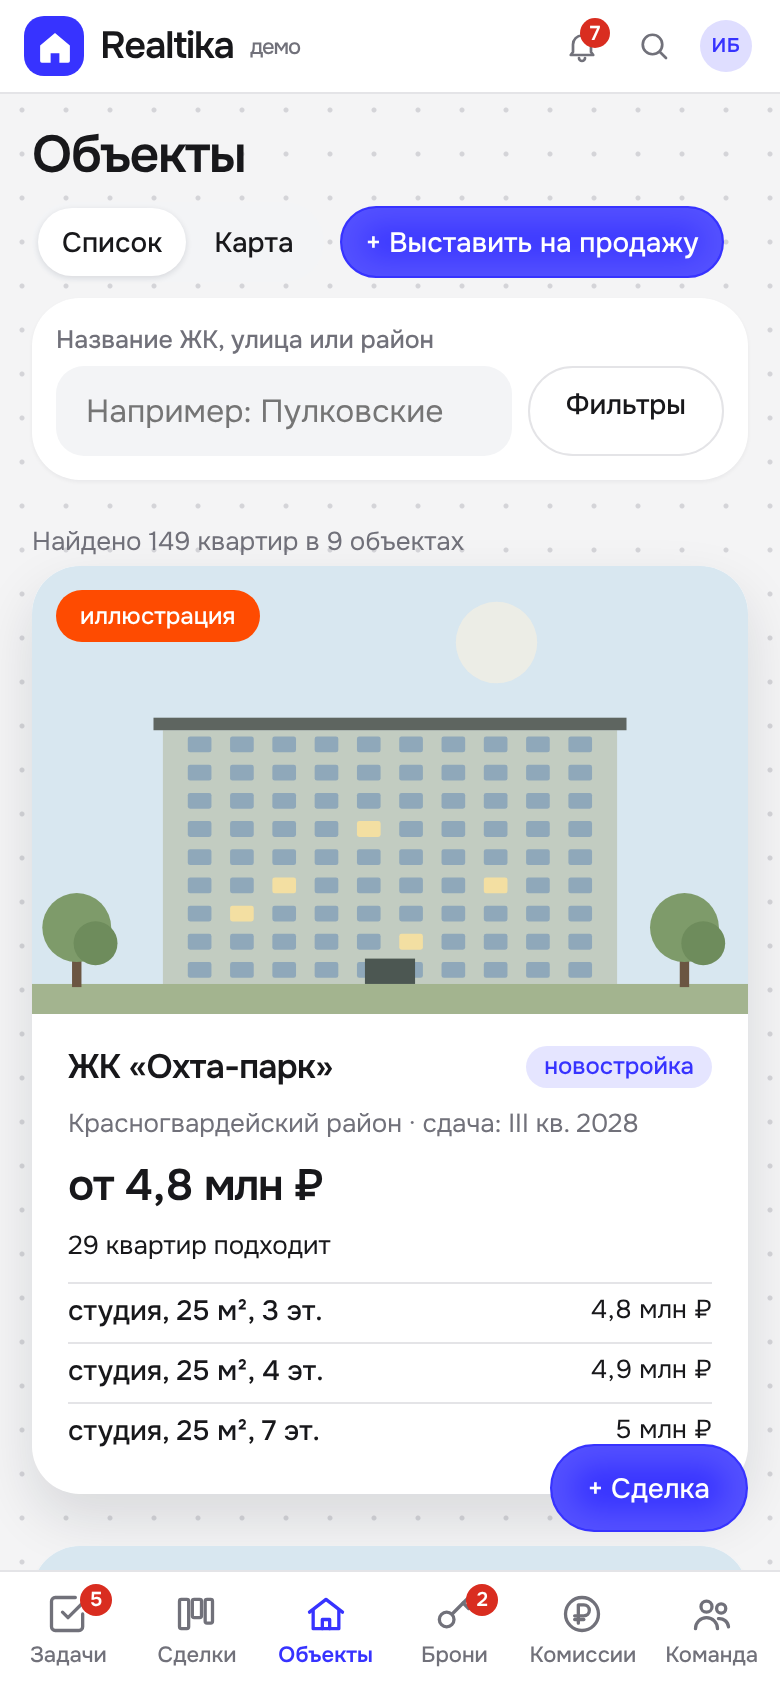
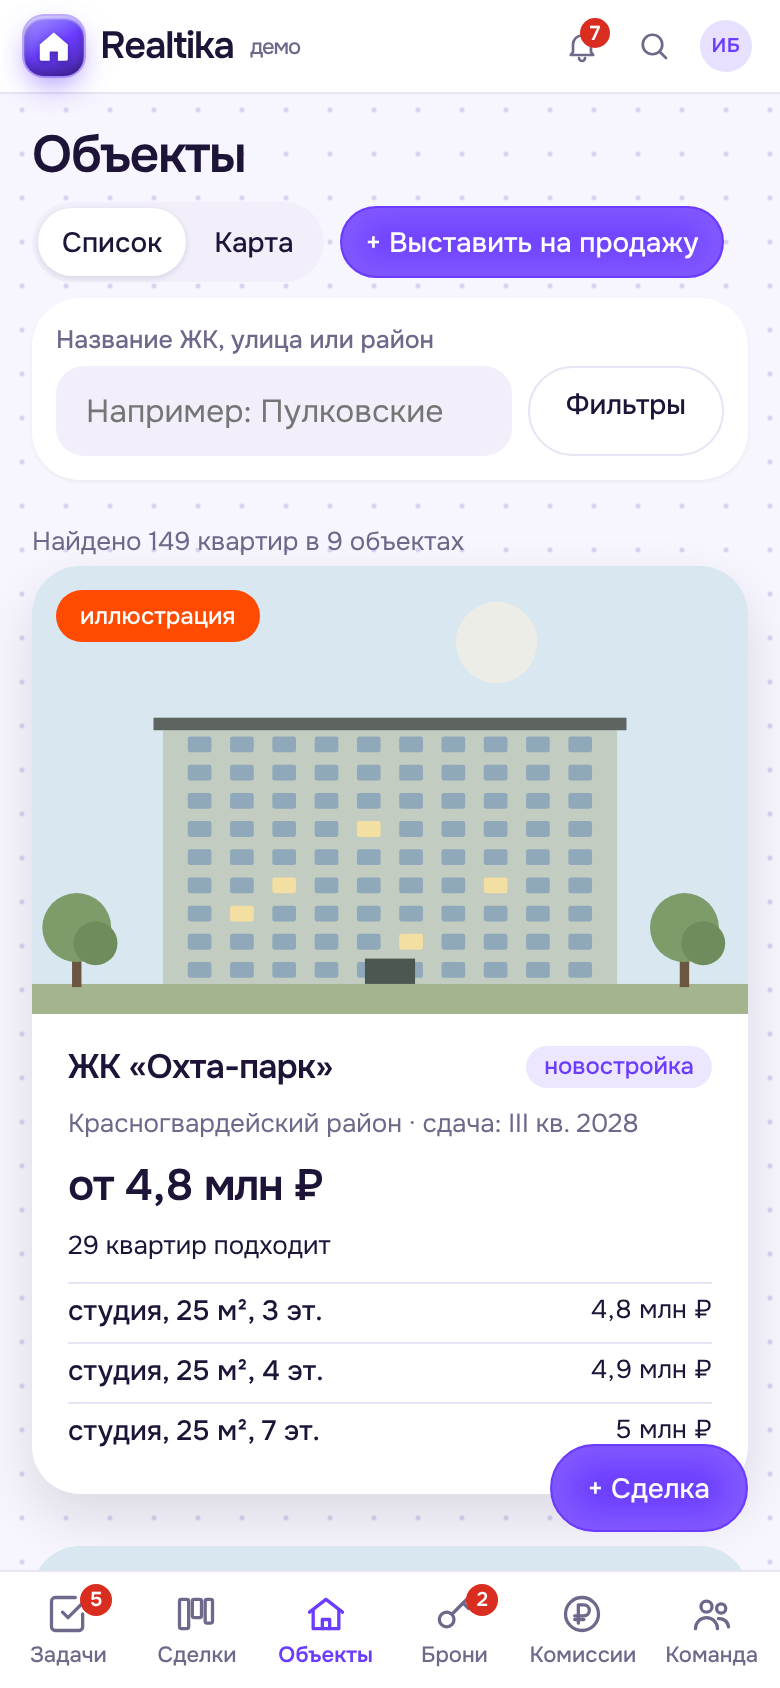
design: violet, white and orange palette; drop the black accents
Violet login panel with an orange glow, violet active tab, lavender-tinted
neutrals and dot grid. Screenshots and motion GIF refreshed.

Claude-Session: https://claude.ai/code/session_01WGyjb6ifj2QD7Cnku9bK9v

diff --git a/app/index.html b/app/index.html
@@ -7,13 +7,13 @@
 <style>
 /* Layout в духе каталогов новостроек: белая шапка с разделами сверху (на телефоне вкладки снизу), светло-серый фон,
    контент на белых скруглённых плашках, крупные карточки объектов с фото. Сделка выезжает справа. */
-/* Цветовые схемы. Базовая — «Тренд»: нейтральный серый фон в точку, белые плашки, индиго для главного действия,
-   оранжевый как второй акцент. Остальные включаются атрибутом data-palette на <html> из настроек кабинета. */
+/* Цветовые схемы. Базовая — «Тренд»: фиолетовый, белый и оранжевый. Светло-лавандовый фон в точку, белые плашки,
+   фиолетовый для главного действия, оранжевый как второй акцент. Остальные включаются атрибутом data-palette на <html> из настроек кабинета. */
 :root {
-  --bg: #F4F4F5; --surface: #FFFFFF; --sunken: #F3F4F6; --hover: #E4E4E7; --ink: #18181B; --muted: #71717A; --line: #E4E4E7; --dot: #D4D4D8;
-  --accent: #3733FF; --accent-ink: #FFFFFF; --accent-d: #8F8CFF; --accent-ink-d: #07063A; --hot: #FE4B01;
-  --side-bg: #FFFFFF; --side-ink: #18181B; --side-muted: #71717A; --side-hover: #F3F4F6; --side-line: #E4E4E7; --side-field: #F3F4F6;
-  --panel: #18181B;
+  --bg: #F7F5FD; --surface: #FFFFFF; --sunken: #F2EFFB; --hover: #E8E3F7; --ink: #1D1438; --muted: #6E688A; --line: #E8E4F4; --dot: #DAD3F0;
+  --accent: #6B3CFF; --accent-ink: #FFFFFF; --accent-d: #B39BFF; --accent-ink-d: #14072F; --hot: #FE4B01;
+  --side-bg: #FFFFFF; --side-ink: #1D1438; --side-muted: #6E688A; --side-hover: #F2EFFB; --side-line: #E8E4F4; --side-field: #F2EFFB;
+  --panel: #6B3CFF;
   --ok: #12805C; --warn: #A15C07; --crit: #D92D20;
   --f-display: Onest, system-ui, -apple-system, "Segoe UI", Roboto, sans-serif;
   --f-body: Onest, system-ui, -apple-system, "Segoe UI", Roboto, sans-serif;
@@ -114,9 +114,9 @@ nav.tabs { display: grid; gap: 1px; flex: 1; align-content: start; }
 
 .login { min-height: 100vh; min-height: 100dvh; display: grid; place-items: center; padding-block: 24px; box-sizing: border-box; }
 .login-card { width: min(960px, 100%); display: grid; grid-template-columns: 1fr 1fr; gap: 8px; padding: 8px; box-sizing: border-box; background: var(--surface); border-radius: 32px; box-shadow: 0 24px 48px rgb(16 24 40 / .08); overflow: hidden; }
-.login-brand { background: var(--panel); color: #F4F3F1; border-radius: 26px; padding: 36px; display: grid; gap: 18px; align-content: space-between; }
+.login-brand { background: radial-gradient(70% 55% at 100% 100%, rgb(254 75 1 / .45), transparent 70%), radial-gradient(60% 50% at 0% 0%, rgb(255 255 255 / .18), transparent 70%), var(--panel); color: #fff; border-radius: 26px; padding: 36px; display: grid; gap: 18px; align-content: space-between; }
 .login-brand .logo { font-size: 24px; gap: 10px; }
-.login-brand .mark { width: 44px; height: 44px; border-radius: 14px; }
+.login-brand .mark { width: 44px; height: 44px; border-radius: 14px; color: var(--panel); background: linear-gradient(150deg, #fff, #E9E2FF); box-shadow: inset 0 -3px 6px rgb(60 20 160 / .18), 0 8px 20px -6px rgb(30 10 90 / .5); }
 .login-brand .lead { font: 500 30px/1.1 var(--f-display); letter-spacing: -.03em; margin: 0; max-width: 16ch; }
 .login-brand .fine { font-size: 12px; opacity: .8; margin: 0; }
 .login-form { padding: 40px; display: grid; gap: 14px; align-content: start; }
@@ -347,7 +347,7 @@ dialog.modal.search { margin-top: 12vh; width: min(580px, calc(100% - 32px)); }
   nav.tabs { order: 1; display: flex; flex: 1; gap: 2px; }
   .tab { padding: 9px 16px; border-radius: 999px; white-space: nowrap; }
   .tab svg { display: none; }
-  .tab[aria-current="page"] { background: var(--ink); color: var(--surface); font-weight: 500; }
+  .tab[aria-current="page"] { background: var(--accent); color: var(--accent-ink); font-weight: 500; box-shadow: 0 6px 16px -6px color-mix(in srgb, var(--accent) 70%, transparent); }
   .tab b { margin-left: 4px; }
   .side-search { order: 2; width: 240px; border: 0; border-radius: 999px; padding: 9px 16px; }
   .side .icon-btn { order: 3; width: 40px; height: 40px; border-radius: 50%; }
